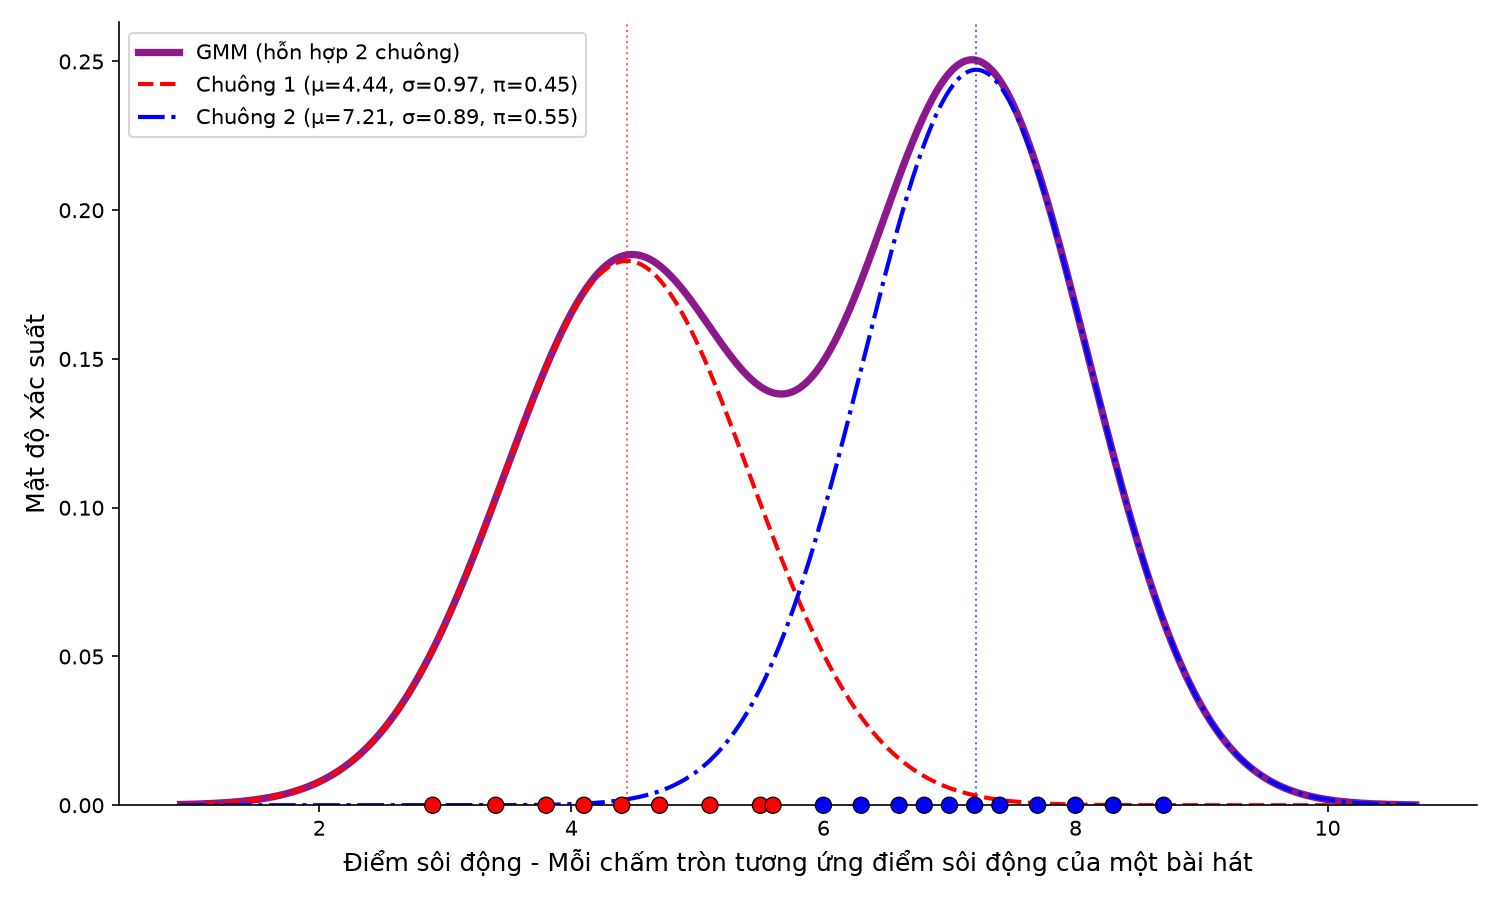
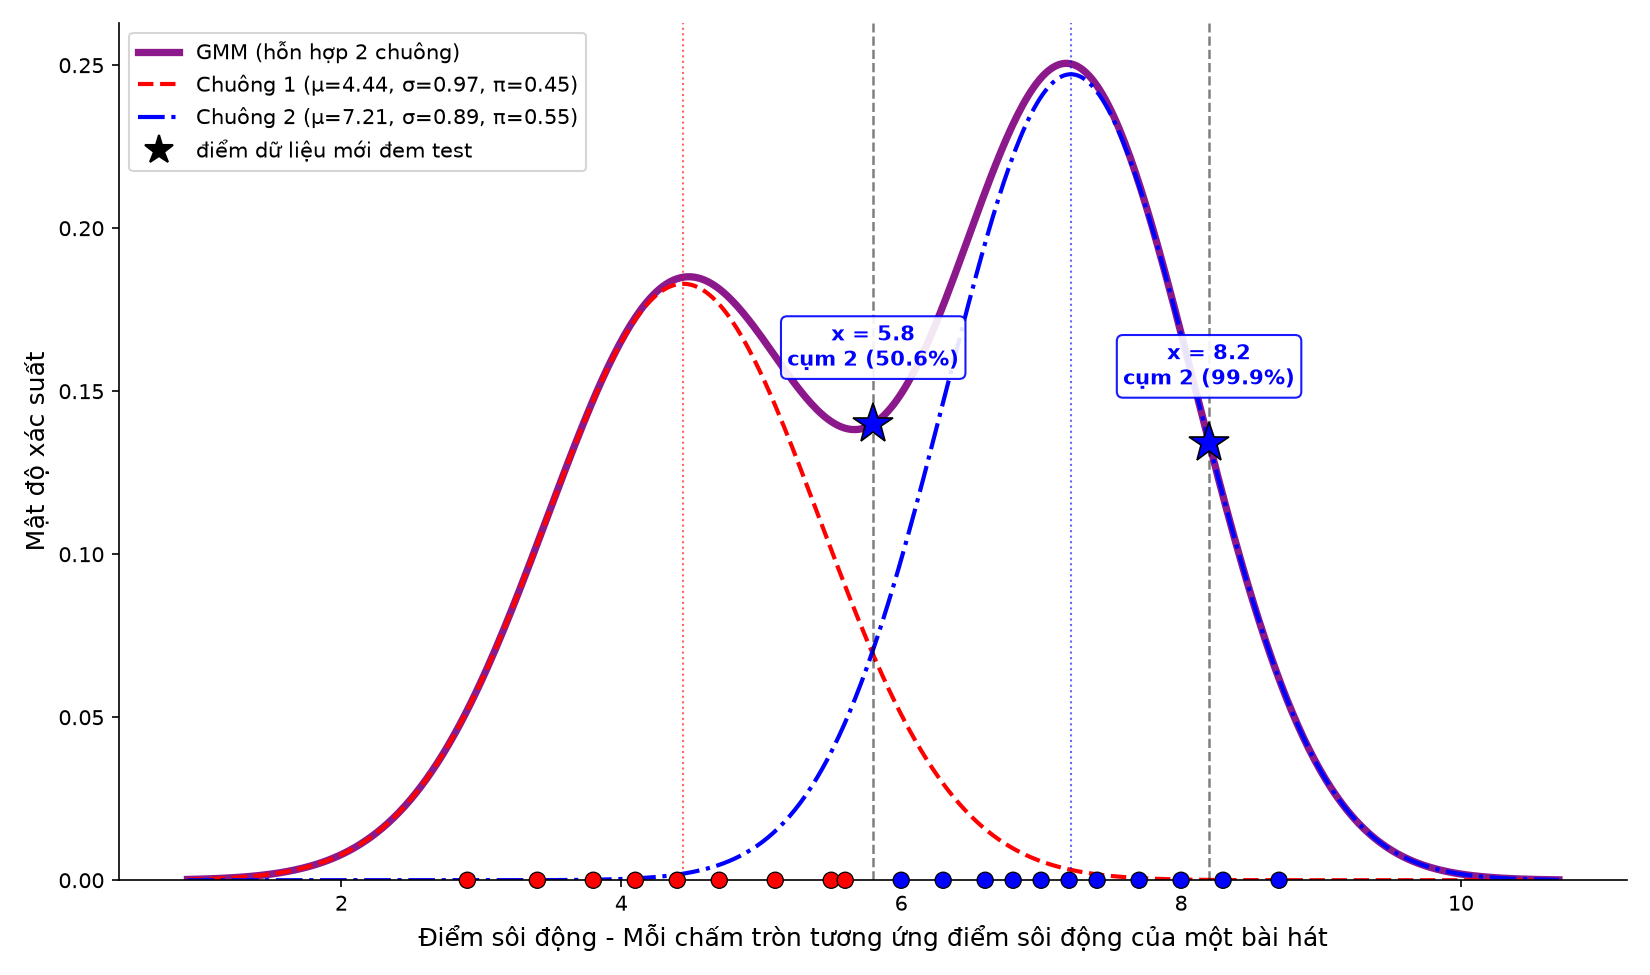
Restructure the GMM script into train / visualise / test sections
Keep the flat script style but split it into three labelled parts: fit the
model, plot that same model, then push new datapoints through it and print the
per-component density, the posterior over clusters and the predicted cluster,
marking each test point on the plot. Component loops replace the hard-coded
pair of bells so N_CLUSTERS at the top is all that needs changing, and the hand
-computed posterior is asserted against sklearn's predict_proba.

Claude-Session: https://claude.ai/code/session_01PWmJ8yavHZR52Zw4ynvAGD

diff --git a/src/gmm_baihat.py b/src/gmm_baihat.py
@@ -1,4 +1,9 @@
-"""GMM 2 cụm trên cột diemSoiDong của data/BaiHat.csv."""
+"""GMM trên cột diemSoiDong của data/BaiHat.csv.
+
+Phần 1: huấn luyện mô hình.
+Phần 2: visualize chính mô hình vừa huấn luyện.
+Phần 3: đưa một điểm dữ liệu mới vào mô hình đó và xem đầu ra.
+"""
 
 from pathlib import Path
 
@@ -9,61 +14,114 @@ from sklearn.mixture import GaussianMixture
 
 ROOT = Path(__file__).resolve().parent.parent  # thư mục gốc của repo
 
-# ---------- Phần 1: Huấn luyện GMM với 2 cụm ----------
+N_CLUSTERS = 2                 # đổi số cụm ở đây
+TEST_POINTS = [5.8, 8.2]       # các điểm sôi động mới muốn thử với mô hình
+COLORS = ["red", "blue", "green", "orange", "purple"]
+LINE_STYLES = ["--", "-.", ":", (0, (5, 1, 1, 1)), (0, (3, 1, 3, 1, 1, 1))]
+
+
+def normal_pdf(x, mu, sigma):
+    """Hàm mật độ N(x; mu, sigma)."""
+    return np.exp(-0.5 * ((x - mu) / sigma) ** 2) / (sigma * np.sqrt(2 * np.pi))
+
+
+# ==========================================================
+# Phần 1: Huấn luyện GMM
+# ==========================================================
 
 df = pd.read_csv(ROOT / "data" / "BaiHat.csv")
 X = df[["diemSoiDong"]].to_numpy()  # tập X 1 chiều, shape (n, 1)
 
-gmm = GaussianMixture(n_components=2, covariance_type="full", random_state=0)
+gmm = GaussianMixture(n_components=N_CLUSTERS, covariance_type="full", random_state=0)
 gmm.fit(X)
 
 weights = gmm.weights_                      # trọng số pi_k
 means = gmm.means_.ravel()                  # trung bình mu_k
 stds = np.sqrt(gmm.covariances_.ravel())    # độ lệch chuẩn sigma_k
 
-# Sắp cụm theo mean tăng dần để cụm 1 = "ít sôi động", cụm 2 = "sôi động"
+# Sắp cụm theo mean tăng dần: cụm 1 = ít sôi động nhất
 order = np.argsort(means)
 weights, means, stds = weights[order], means[order], stds[order]
 remap = {old: new + 1 for new, old in enumerate(order)}
 df["cum"] = [remap[l] for l in gmm.predict(X)]
 
-for k in range(2):
+print(f"--- Phần 1: Huấn luyện GMM {N_CLUSTERS} cụm ---")
+for k in range(N_CLUSTERS):
     print(f"Cụm {k + 1}: pi={weights[k]:.3f}  mu={means[k]:.3f}  sigma={stds[k]:.3f}")
 print(f"Hội tụ: {gmm.converged_} | log-likelihood trung bình: {gmm.score(X):.3f}")
 print(df.sort_values("diemSoiDong").to_string(index=False))
 
-# ---------- Phần 2: Visualize 2 chuông + GMM kết quả ----------
 
-def normal_pdf(x, mu, sigma):
-    return np.exp(-0.5 * ((x - mu) / sigma) ** 2) / (sigma * np.sqrt(2 * np.pi))
+# ==========================================================
+# Phần 2: Visualize chính mô hình vừa huấn luyện
+# ==========================================================
 
 grid = np.linspace(X.min() - 2, X.max() + 2, 500)
-bell1 = weights[0] * normal_pdf(grid, means[0], stds[0])
-bell2 = weights[1] * normal_pdf(grid, means[1], stds[1])
-mixture = bell1 + bell2
+bells = np.array([weights[k] * normal_pdf(grid, means[k], stds[k])
+                  for k in range(N_CLUSTERS)])
+mixture = bells.sum(axis=0)
 
-fig, ax = plt.subplots(figsize=(10, 6))
+fig, ax = plt.subplots(figsize=(11, 6.5))
 
 # Mô hình GMM kết quả (tím) - đường dày, liền nét
 ax.plot(grid, mixture, color="purple", lw=3.5, alpha=0.9,
-        label="GMM (hỗn hợp 2 chuông)")
+        label=f"GMM (hỗn hợp {N_CLUSTERS} chuông)")
 
-# Chuông 1 (đỏ, nét đứt) và chuông 2 (xanh, nét gạch-chấm)
-ax.plot(grid, bell1, color="red", lw=2, ls="--",
-        label=f"Chuông 1 (μ={means[0]:.2f}, σ={stds[0]:.2f}, π={weights[0]:.2f})")
-ax.plot(grid, bell2, color="blue", lw=2, ls="-.",
-        label=f"Chuông 2 (μ={means[1]:.2f}, σ={stds[1]:.2f}, π={weights[1]:.2f})")
-
-# Đánh dấu tâm mỗi chuông
-ax.axvline(means[0], color="red", lw=1, ls=":", alpha=0.6)
-ax.axvline(means[1], color="blue", lw=1, ls=":", alpha=0.6)
+# Từng chuông thành phần + vạch dọc tại tâm mu
+for k in range(N_CLUSTERS):
+    color = COLORS[k % len(COLORS)]
+    ax.plot(grid, bells[k], color=color, lw=2, ls=LINE_STYLES[k % len(LINE_STYLES)],
+            label=f"Chuông {k + 1} (μ={means[k]:.2f}, σ={stds[k]:.2f}, π={weights[k]:.2f})")
+    ax.axvline(means[k], color=color, lw=1, ls=":", alpha=0.6)
 
 # Các điểm dữ liệu trên trục X: mỗi chấm = 1 bài hát, tô theo cụm được gán
-colors = np.where(df["cum"].to_numpy() == 1, "red", "blue")
-ax.scatter(X.ravel(), np.zeros_like(X.ravel()), s=60, c=colors,
+dot_colors = [COLORS[(l - 1) % len(COLORS)] for l in df["cum"]]
+ax.scatter(X.ravel(), np.zeros_like(X.ravel()), s=60, c=dot_colors,
            edgecolors="black", linewidths=0.6, zorder=5, clip_on=False)
 
-ax.set_xlabel("Điểm sôi động - Mỗi chấm tròn tương ứng điểm sôi động của một bài hát", fontsize=12)
+
+# ==========================================================
+# Phần 3: Test một điểm dữ liệu mới trên chính mô hình đó
+# ==========================================================
+
+print("\n--- Phần 3: Thử điểm dữ liệu mới ---")
+
+for x_new in TEST_POINTS:
+    # Mật độ có trọng số của từng cụm: pi_k * N(x | mu_k, sigma_k)
+    comp = np.array([weights[k] * normal_pdf(x_new, means[k], stds[k])
+                     for k in range(N_CLUSTERS)])
+    px = comp.sum()               # p(x): mật độ của cả hỗn hợp tại x
+    post = comp / px              # xác suất hậu nghiệm: x thuộc về cụm nào
+    best = int(np.argmax(post)) + 1
+
+    print(f"\nĐiểm sôi động mới x = {x_new}")
+    print(f"  {'cụm':>4} {'pi_k':>7} {'N(x|k)':>9} {'pi_k*N':>9} {'hậu nghiệm':>12}")
+    for k in range(N_CLUSTERS):
+        print(f"  {k + 1:>4} {weights[k]:>7.3f} "
+              f"{normal_pdf(x_new, means[k], stds[k]):>9.4f} "
+              f"{comp[k]:>9.4f} {post[k]:>11.1%}")
+    print(f"  -> p(x) = {px:.4f}  |  log p(x) = {np.log(px):.4f}")
+    print(f"  -> Dự đoán: CỤM {best} với xác suất {post[best - 1]:.1%}")
+
+    # Đối chiếu với sklearn để chắc chắn công thức tay ở trên đúng
+    assert np.allclose(post, gmm.predict_proba([[x_new]])[0][order])
+    assert np.isclose(np.log(px), gmm.score_samples([[x_new]])[0])
+
+    # Vẽ điểm mới lên biểu đồ: vạch dọc + ngôi sao tại p(x) + nhãn kết quả
+    color = COLORS[(best - 1) % len(COLORS)]
+    ax.axvline(x_new, color="black", lw=1.2, ls="--", alpha=0.5)
+    ax.plot(x_new, px, marker="*", ms=20, color=color,
+            markeredgecolor="black", markeredgewidth=0.8, zorder=6)
+    ax.annotate(f"x = {x_new}\ncụm {best} ({post[best - 1]:.1%})",
+                xy=(x_new, px), xytext=(0, 28), textcoords="offset points",
+                ha="center", fontsize=10, fontweight="bold", color=color,
+                bbox=dict(boxstyle="round,pad=0.3", fc="white", ec=color, alpha=0.9))
+
+ax.plot([], [], marker="*", ms=14, ls="none", color="black",
+        label="điểm dữ liệu mới đem test")
+
+ax.set_xlabel("Điểm sôi động - Mỗi chấm tròn tương ứng điểm sôi động của một bài hát",
+              fontsize=12)
 ax.set_ylabel("Mật độ xác suất", fontsize=12)
 ax.set_ylim(bottom=0)
 ax.legend()
@@ -71,5 +129,5 @@ ax.spines[["top", "right"]].set_visible(False)
 fig.tight_layout()
 out_path = ROOT / "gmm_baihat.png"
 fig.savefig(out_path, dpi=150)
-print(f"Đã lưu biểu đồ: {out_path}")
+print(f"\nĐã lưu biểu đồ: {out_path}")
 plt.show()
